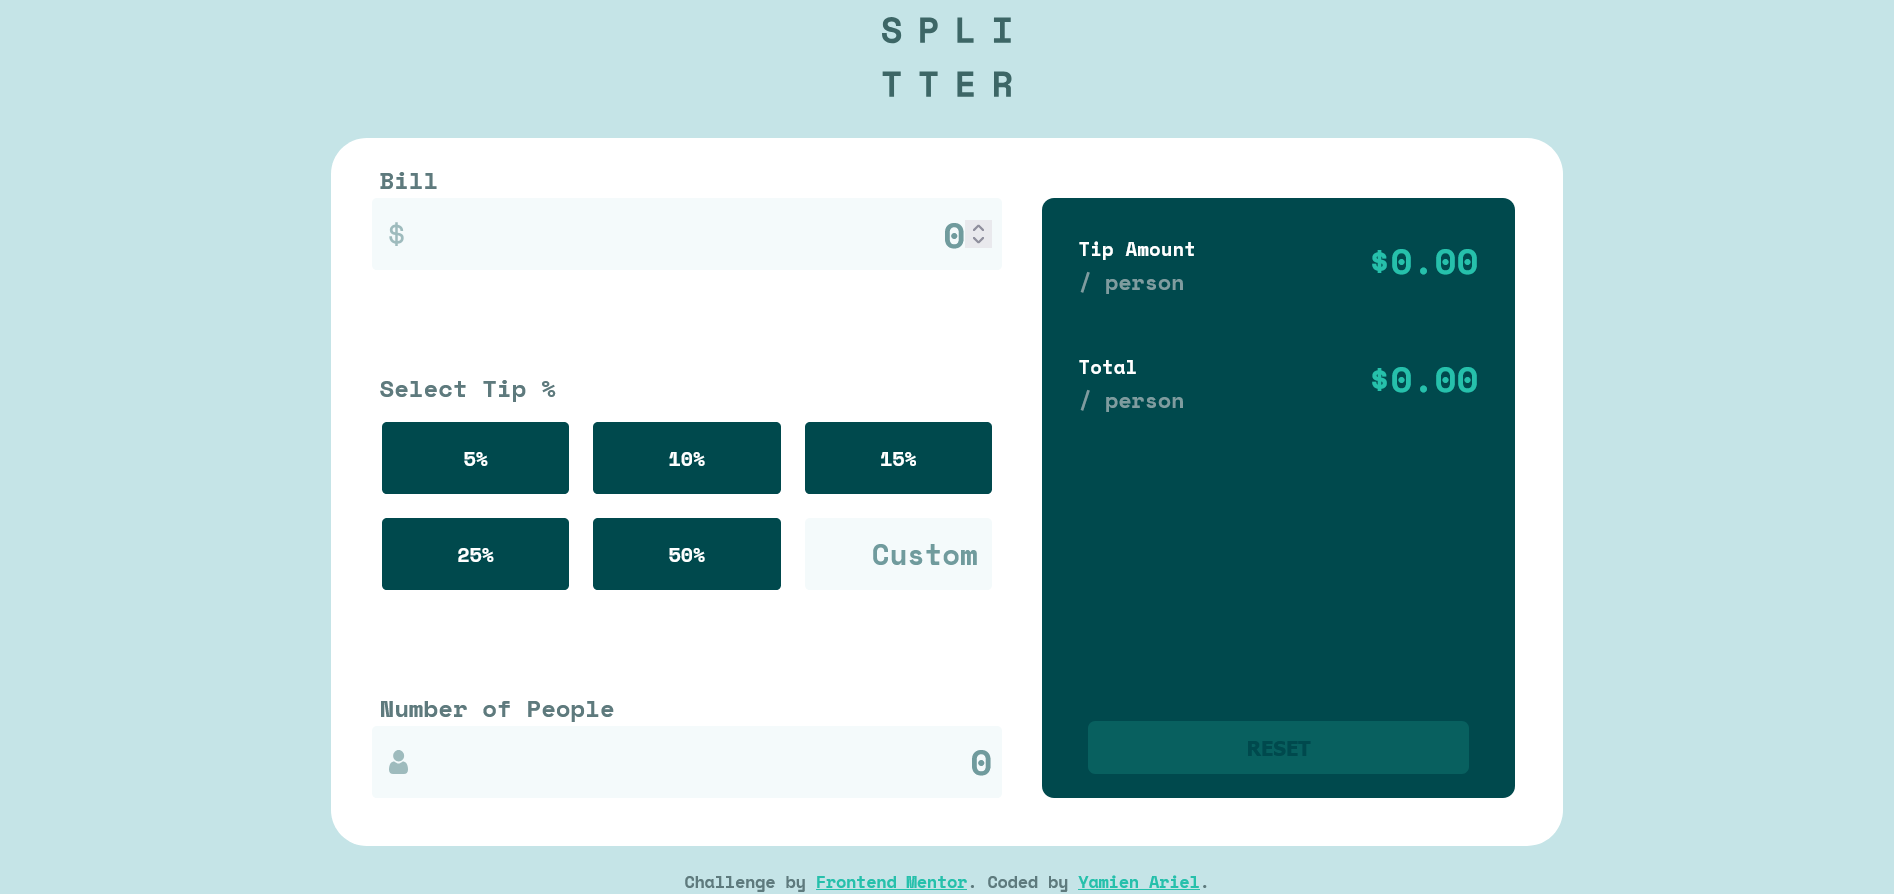
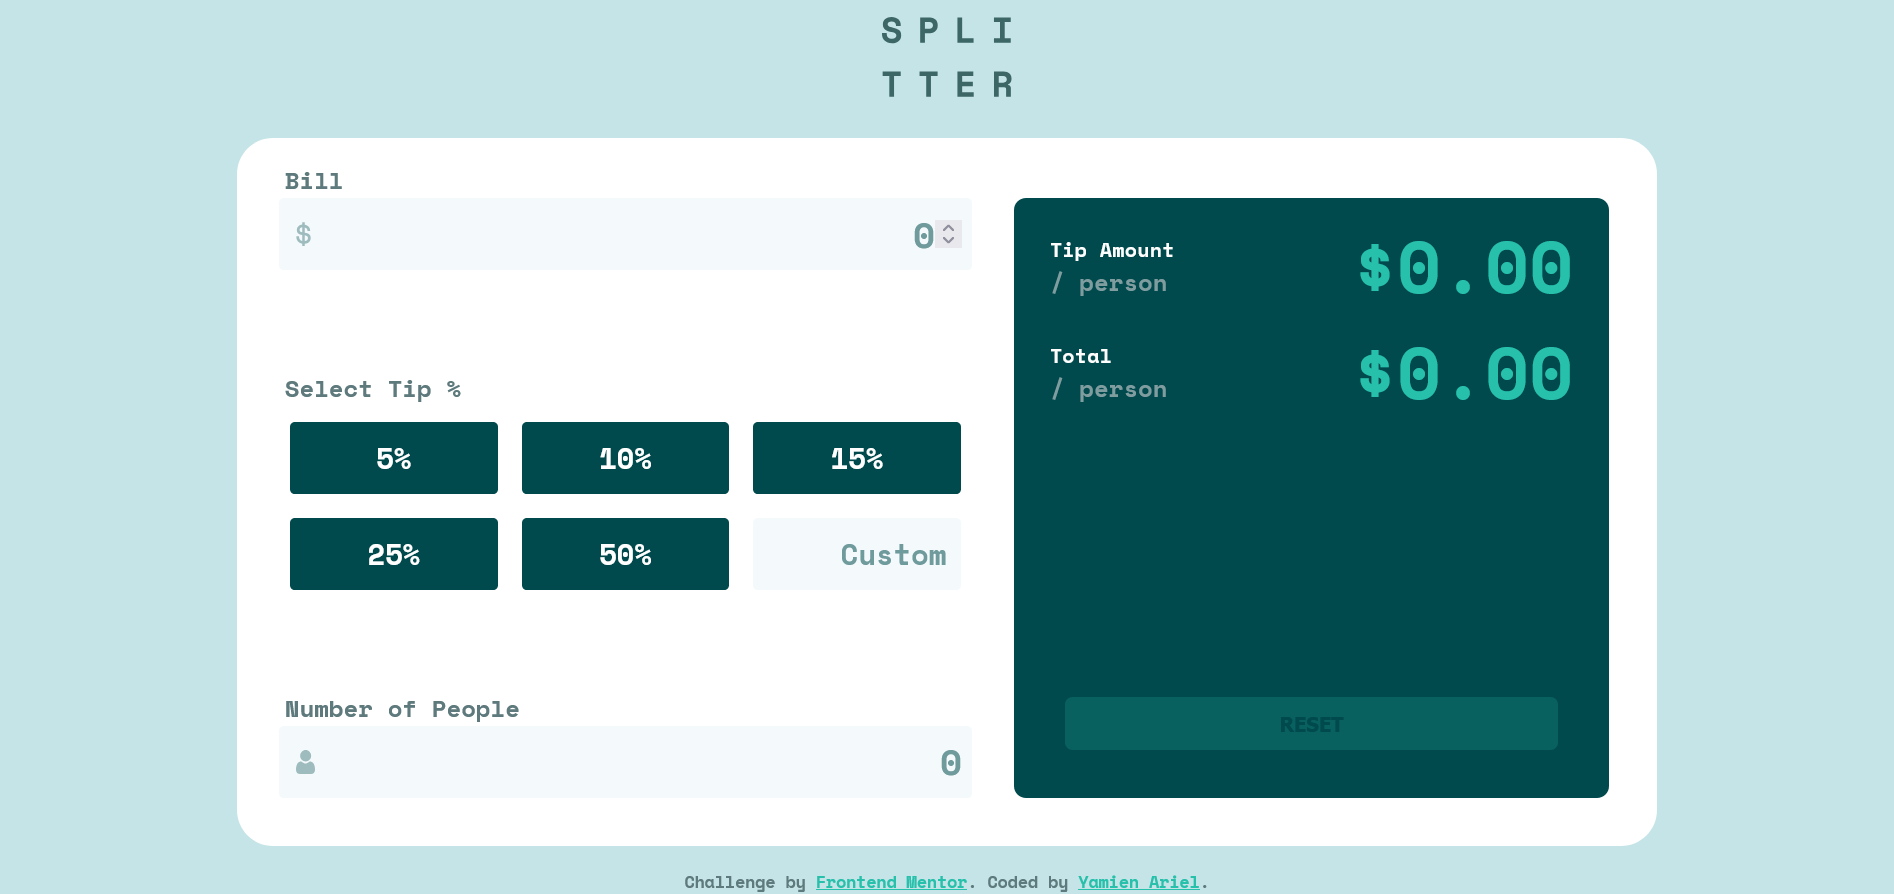
Amélioration

Changed region(s): [[0.1246, 0.151, 0.623, 0.9664], [0.7165, 0.151, 0.8722, 0.9664]]

diff --git a/css/style.css b/css/style.css
@@ -64,6 +64,7 @@ main {
   cursor: pointer;
   color: hsl(0, 100%, 100%);
   background-color: hsl(183, 100%, 15%);
+  font-size: 1.2rem;
 }
 .formulaire .choix-pourcentage__btn.cliquer {
   background-color: hsl(172, 67%, 45%);
@@ -160,10 +161,10 @@ main {
 }
 .resultats__text {
   color: hsl(0, 100%, 100%);
-  font-size: 80%;
+  font-size: 85%;
 }
 .resultats__unit {
-  font-size: 0.9rem;
+  font-size: 1rem;
   color: hsl(184, 14%, 56%);
 }
 .resultats__total, .resultats__pourboire {
@@ -192,8 +193,7 @@ main {
   background-color: hsl(185, 41%, 84%);
 }
 .resultats__montant {
-  display: block;
-  font-size: 1.5rem;
+  font-size: 1.6rem;
   color: hsl(172, 67%, 45%);
 }
 
@@ -215,11 +215,21 @@ main {
     justify-content: center;
     align-items: center;
   }
+  .resultats__montant {
+    font-size: 2rem;
+    margin-top: -0.9rem;
+  }
+  .resultats .btn-reset {
+    margin-bottom: 0.5rem;
+  }
 }
 /*Ecran supérieur a 1024px Desktop*/
 @media (min-width: 1024px) {
   .logo {
     margin: 0.7rem 0 0.3rem 0;
+  }
+  .container {
+    width: 75% !important;
   }
   .formulaire {
     display: flex;
@@ -239,8 +249,15 @@ main {
     margin-left: 1rem;
     justify-content: space-between;
   }
+  .resultats .btn-reset {
+    margin-bottom: 1rem;
+  }
   .resultats__total {
     margin-top: -10rem;
+  }
+  .resultats__montant {
+    font-size: 3rem;
+    margin-top: -0.9rem;
   }
 }
 .container {

diff --git a/scss/components/_mediaQuery.scss b/scss/components/_mediaQuery.scss
@@ -14,6 +14,15 @@
         justify-content: center;
         align-items: center;
     }
+    .resultats{
+        &__montant{
+            font-size: $fontSize*2;
+            margin-top: -0.9rem;
+        }
+        .btn-reset{
+            margin-bottom: 0.5rem;
+        }
+    }
 
 }
 
@@ -21,6 +30,9 @@
 @media (min-width:1024px) {
     .logo{
         margin: 0.7rem 0 .3rem 0;
+    }
+    .container{
+        width: 75%!important;
     }
     .formulaire{
         display: flex;
@@ -43,8 +55,15 @@
         height: 25rem;
         margin-left: 1rem;
         justify-content: space-between;
+        .btn-reset{
+            margin-bottom: 1rem;
+        }
         &__total{
             margin-top: -10rem;
+        }
+        &__montant{
+            font-size: $fontSize*3;
+            margin-top: -0.9rem;
         }
     }
 }

diff --git a/scss/components/resultats.scss b/scss/components/resultats.scss
@@ -12,10 +12,10 @@
     margin-top: 1.5rem;
     &__text{
         color: $White;
-        font-size: 80%;
+        font-size: 85%;
     }
     &__unit{
-        font-size: .9rem;
+        font-size: 1rem;
         color: $Grey-400;
     }
     &__total, 
@@ -45,8 +45,7 @@
         }
     }
     &__montant{
-        display: block;
-        font-size: $fontSize*1.5;
+        font-size: $fontSize*1.6;
         color: $Green-400;
     }
 }

diff --git a/scss/components/_form.scss b/scss/components/_form.scss
@@ -32,6 +32,7 @@
             cursor: pointer;
             color: $White;
             background-color: $Green-900;
+            font-size: 1.2rem;
             &.cliquer{
                 background-color: $Green-400;
                 color: $Green-900;
